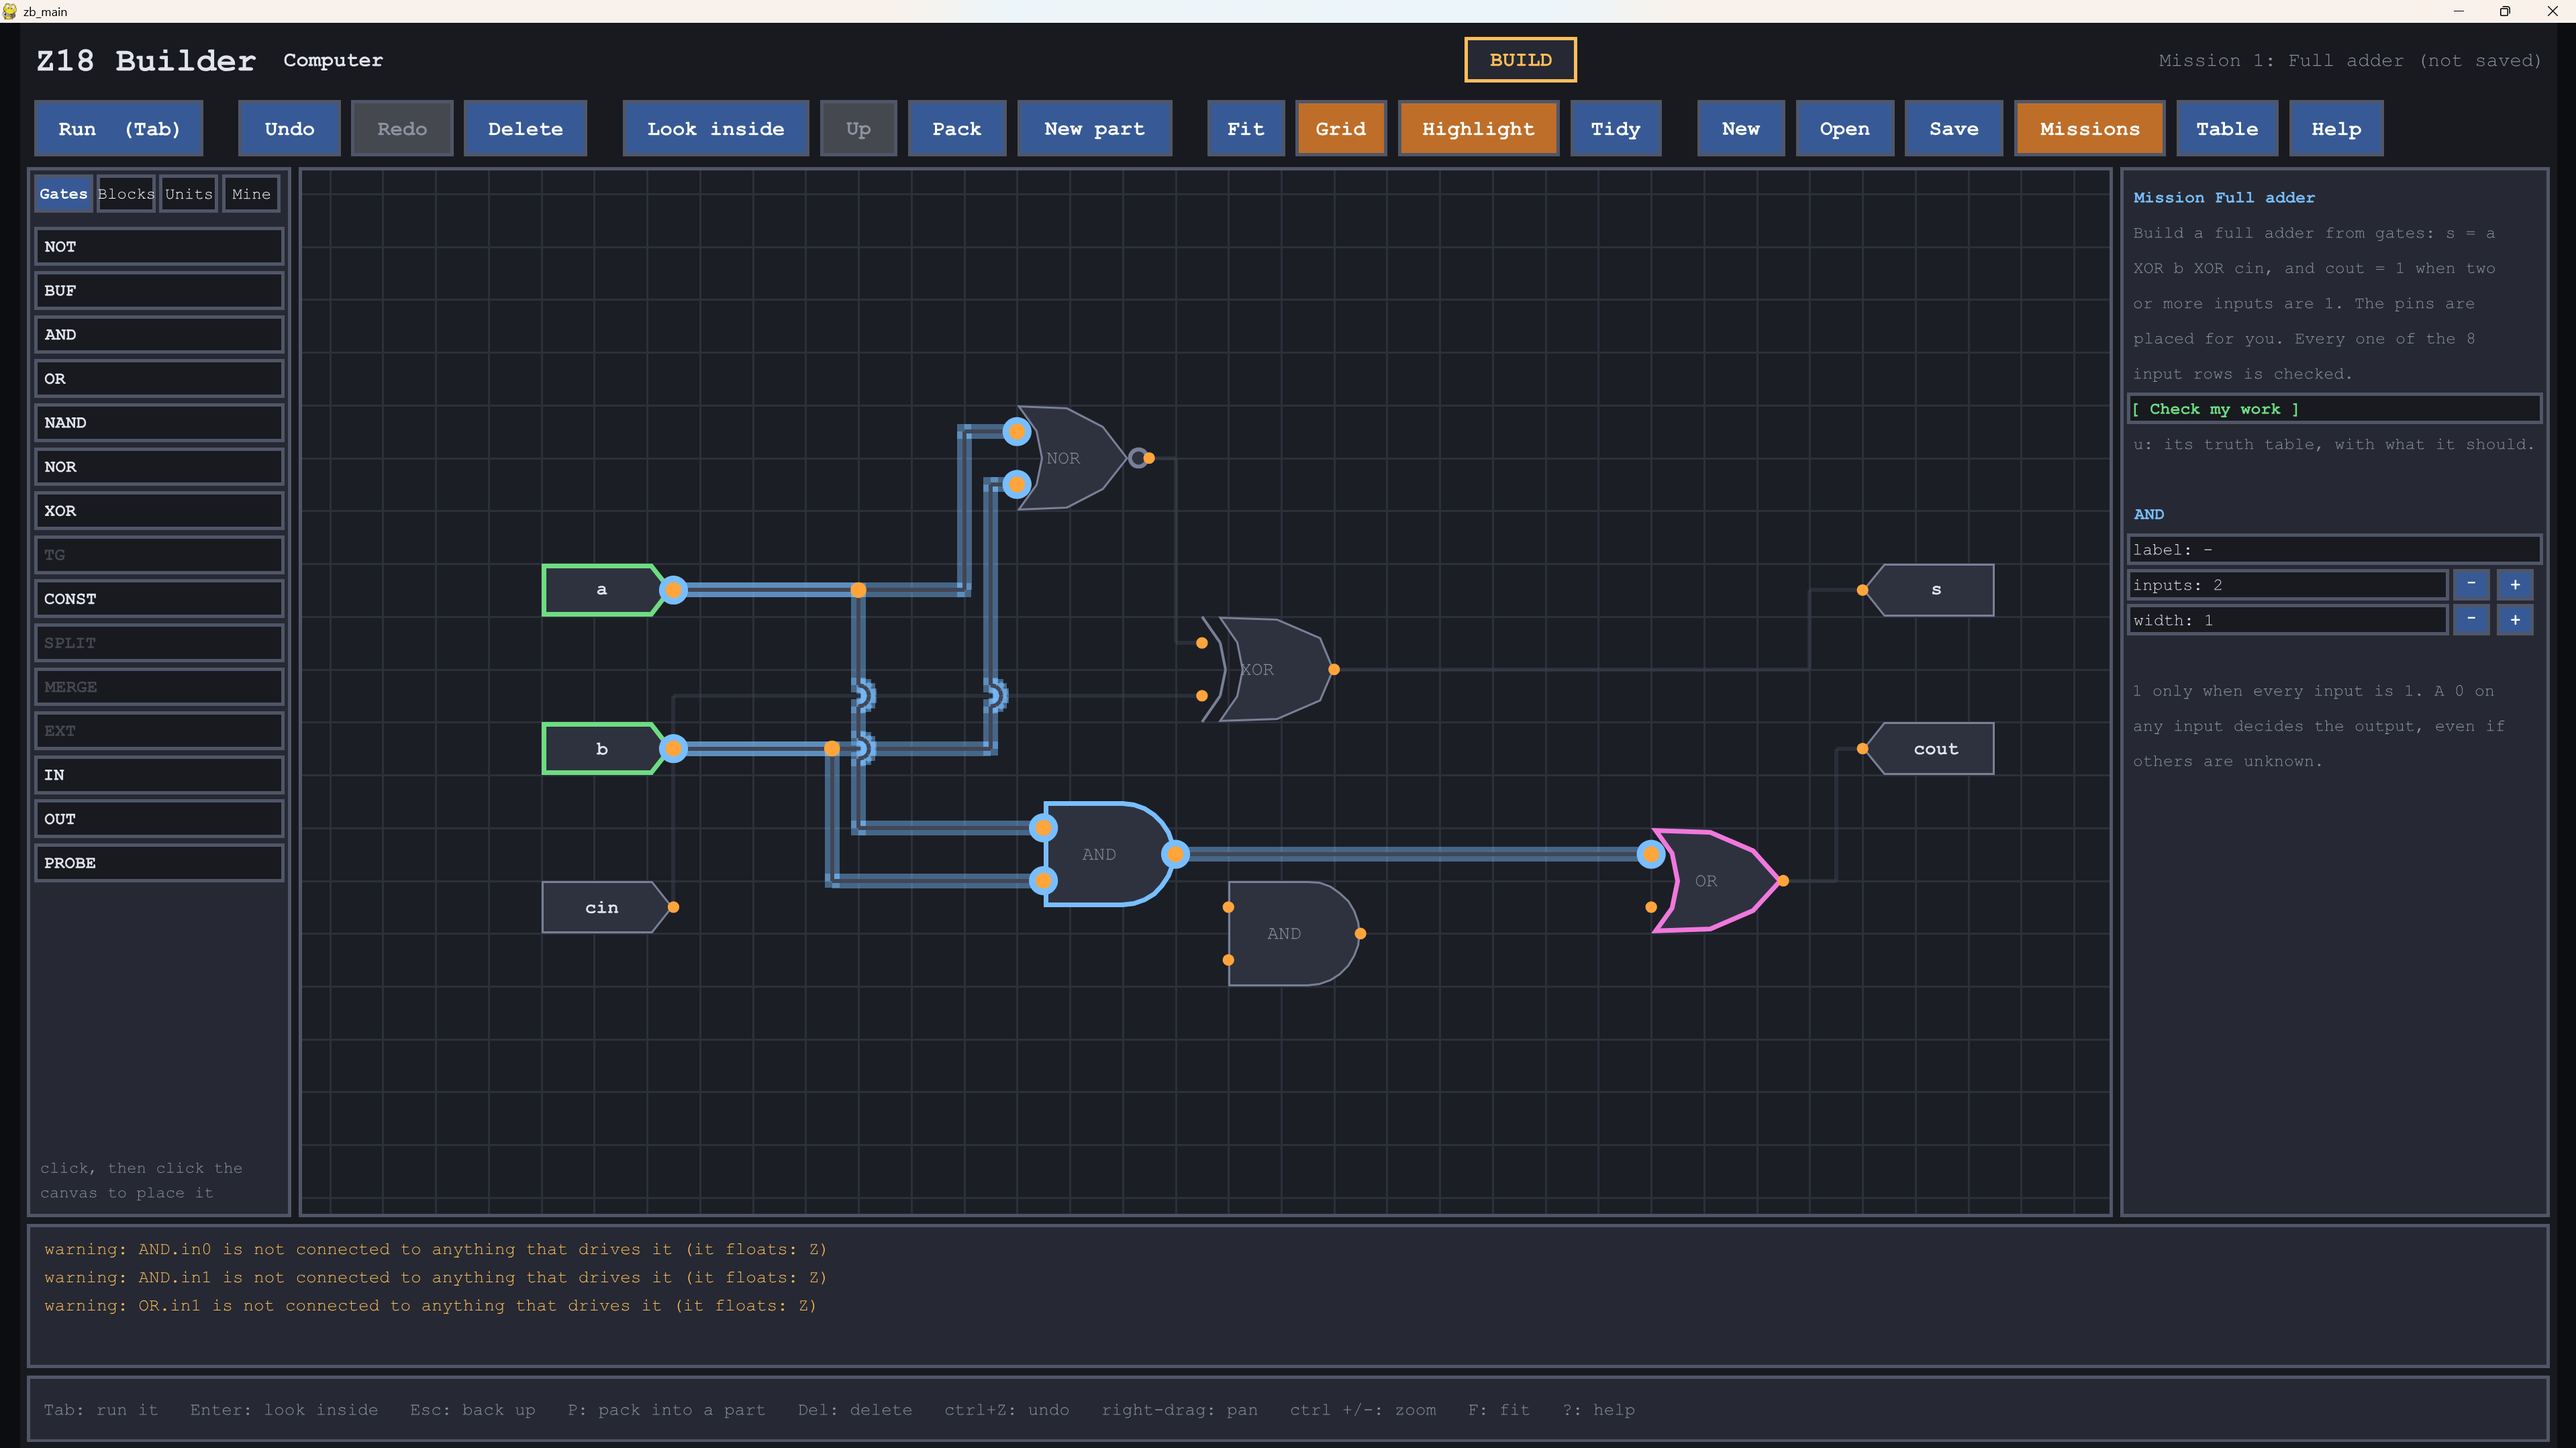
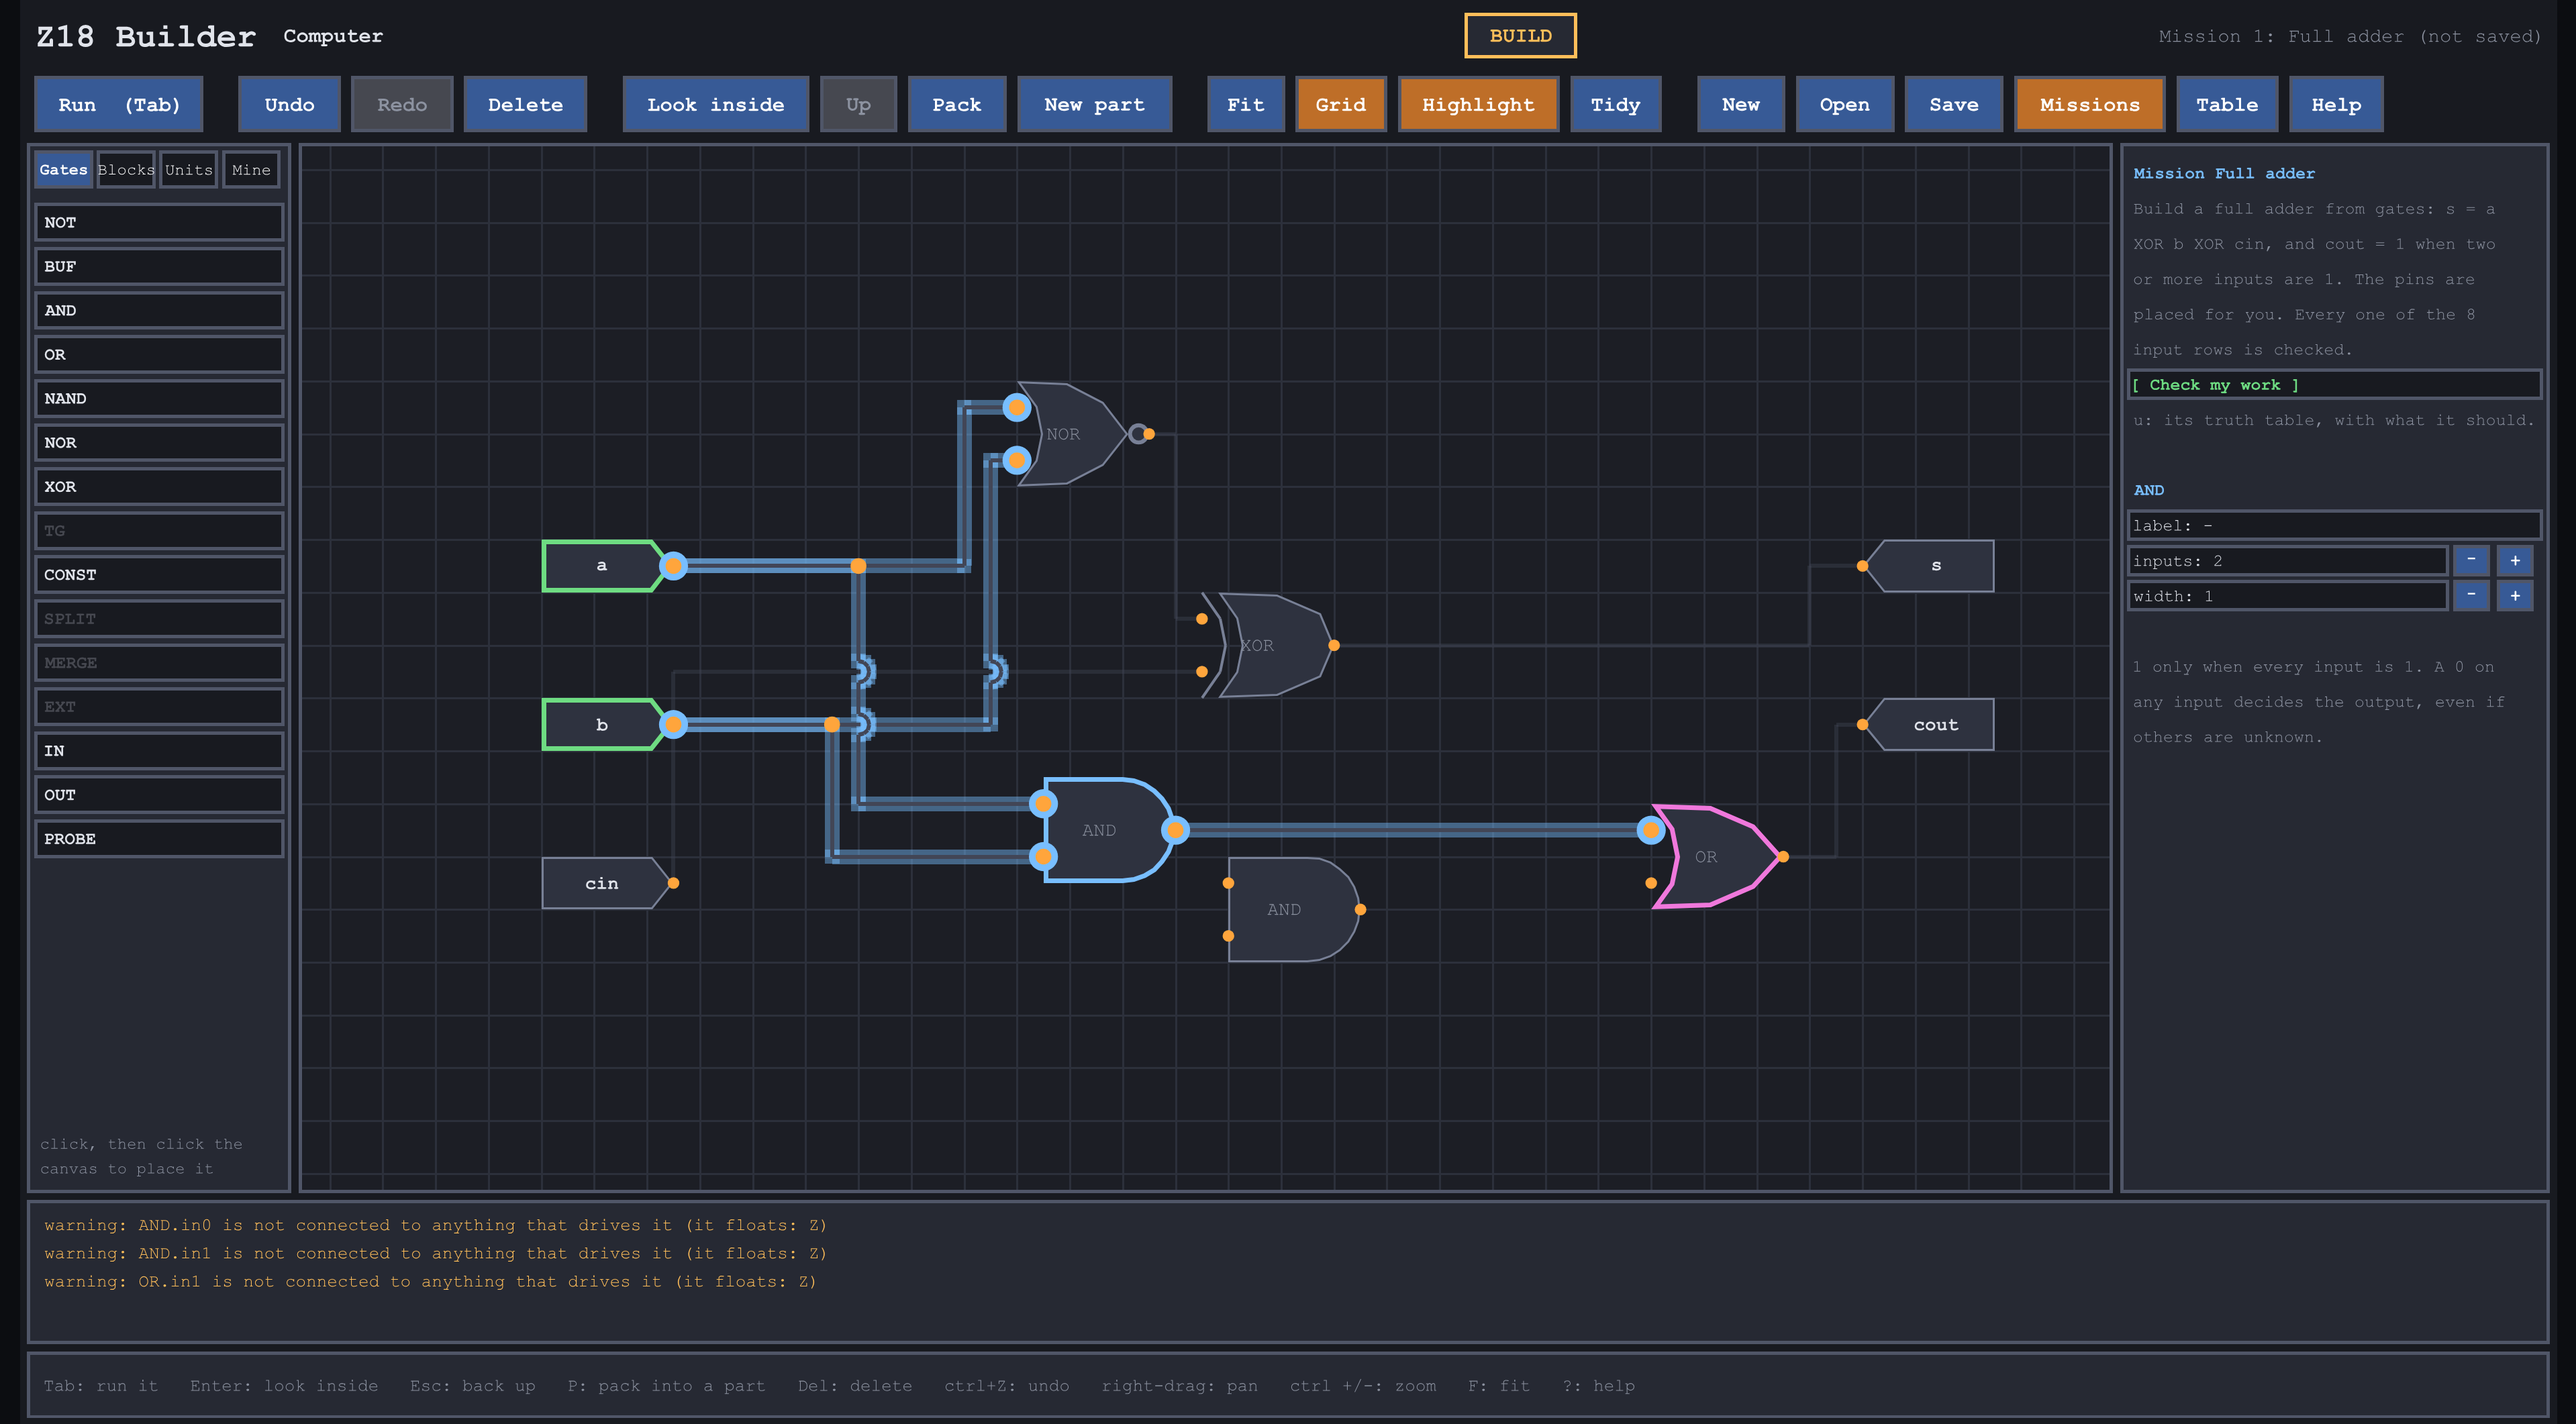
- Crop the hero, wiring and pack-part GIFs to the area that matters   (4K recordings were shrunk too much on GitHub); each links to its   full-resolution original - Add a note that every image opens at full resolution when clicked - Trim the Windows title bar off the top of all GIFs and screenshots 

diff --git a/README.md b/README.md
@@ -2,7 +2,9 @@
 
 **A visual CPU builder: wire up gates, MUXes, registers and RAM into the 18-100 Z18100 lecture machine, then run real programs and watch every signal propagate.**
 
-![The lecture machine running a program wave by wave](ZBuilder18%20Media/hero-run.gif)
+[![The lecture machine running a program wave by wave](ZBuilder18%20Media/hero-run-crop.gif)](ZBuilder18%20Media/hero-run.gif)
+
+<sub>The demos were recorded at 4K: click any image or GIF to see it at full resolution.</sub>
 
 ---
 
@@ -14,7 +16,7 @@ From logic gates up to PC, IR and RAM. Wires drawn without bends are routed auto
 
 ![Build mode: a full adder in progress, with one net lit up and the wiring warnings below](ZBuilder18%20Media/build-mode.png)
 
-![Wiring parts and letting the router find a path](ZBuilder18%20Media/wiring.gif)
+[![Wiring parts and letting the router find a path](ZBuilder18%20Media/wiring-crop.gif)](ZBuilder18%20Media/wiring.gif)
 
 <sub>[Longer version of the wiring demo](ZBuilder18%20Media/wiring%20%28long%20version%29.gif)</sub>
 
@@ -22,7 +24,7 @@ From logic gates up to PC, IR and RAM. Wires drawn without bends are routed auto
 
 Select some parts and press `p` to turn them into one part; wires crossing the edge become its pins. Open any built-in (`Enter`) to see how it is made, from the ALU down to its full adders.
 
-![Packing gates into a reusable part, then looking inside it](ZBuilder18%20Media/pack-part.gif)
+[![Packing gates into a reusable part, then looking inside it](ZBuilder18%20Media/pack-part-crop.gif)](ZBuilder18%20Media/pack-part.gif)
 
 ### Run programs
 
